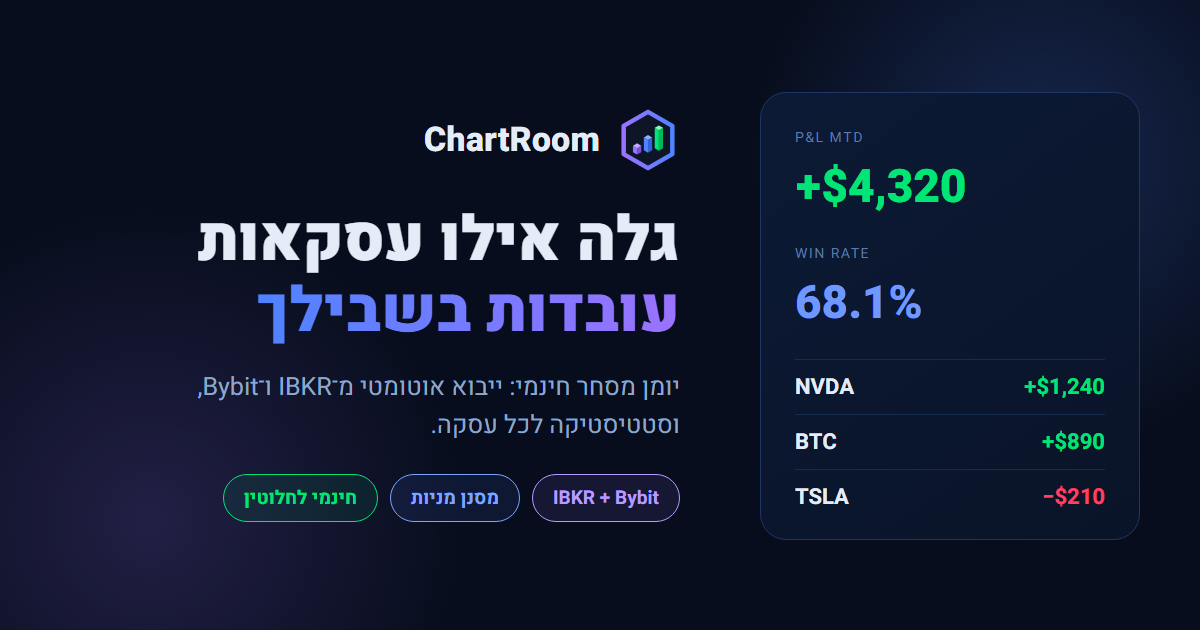
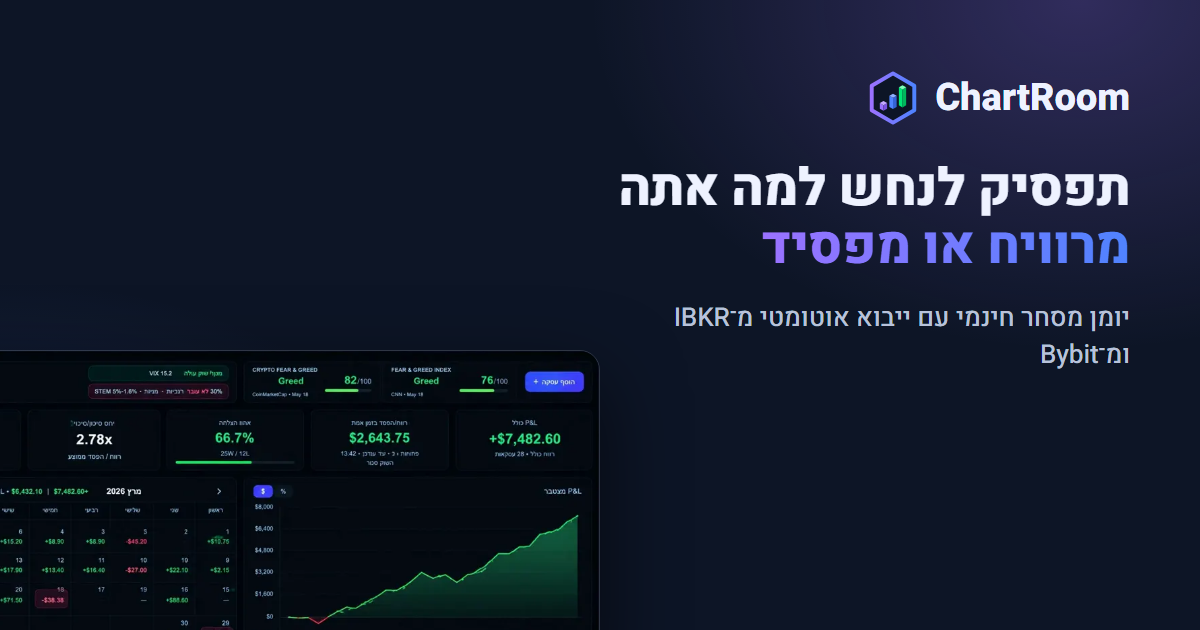
Share images: real product screen instead of sample numbers, separate English image, headline matches the page

diff --git a/index-en.html b/index-en.html
@@ -32,17 +32,17 @@
 <meta property="og:description" content="Automatic import from IBKR and Bybit, Market Pulse overview and a Trend Template stock screener — free.">
 <meta property="og:locale" content="en_US">
 <meta property="og:site_name" content="ChartRoom">
-<meta property="og:image" content="https://davidtheking28-oss.github.io/trading-journal/assets/og-image.png">
+<meta property="og:image" content="https://davidtheking28-oss.github.io/trading-journal/assets/og-image-en.png">
 <meta property="og:image:width" content="1200">
 <meta property="og:image:height" content="630">
 <meta name="twitter:card" content="summary_large_image">
 <meta name="twitter:title" content="Stop Guessing Why Your Trades Win or Lose | ChartRoom">
 <meta name="twitter:description" content="Automatic import from IBKR and Bybit, Market Pulse overview and a Trend Template stock screener — free.">
-<meta name="twitter:image" content="https://davidtheking28-oss.github.io/trading-journal/assets/og-image.png">
+<meta name="twitter:image" content="https://davidtheking28-oss.github.io/trading-journal/assets/og-image-en.png">
 <meta name="theme-color" content="#0c1022">
 <meta name="author" content="ChartRoom">
 <meta name="color-scheme" content="dark">
-<meta property="og:image:alt" content="ChartRoom — professional trading journal">
+<meta property="og:image:alt" content="ChartRoom — stop guessing why your trades win or lose">
 <link rel="icon" href="assets/icon-room.svg" type="image/svg+xml">
 <link rel="apple-touch-icon" href="assets/apple-touch-icon.png">
 <link rel="manifest" href="manifest.json">

diff --git a/index.html b/index.html
@@ -58,7 +58,7 @@
 <meta name="theme-color" content="#0c1022">
 <meta name="author" content="ChartRoom">
 <meta name="color-scheme" content="dark">
-<meta property="og:image:alt" content="ChartRoom — יומן מסחר מקצועי">
+<meta property="og:image:alt" content="ChartRoom — תפסיק לנחש למה אתה מרוויח או מפסיד">
 <link rel="icon" href="assets/icon-room.svg" type="image/svg+xml">
 <link rel="apple-touch-icon" href="assets/apple-touch-icon.png">
 <link rel="manifest" href="manifest.json">
